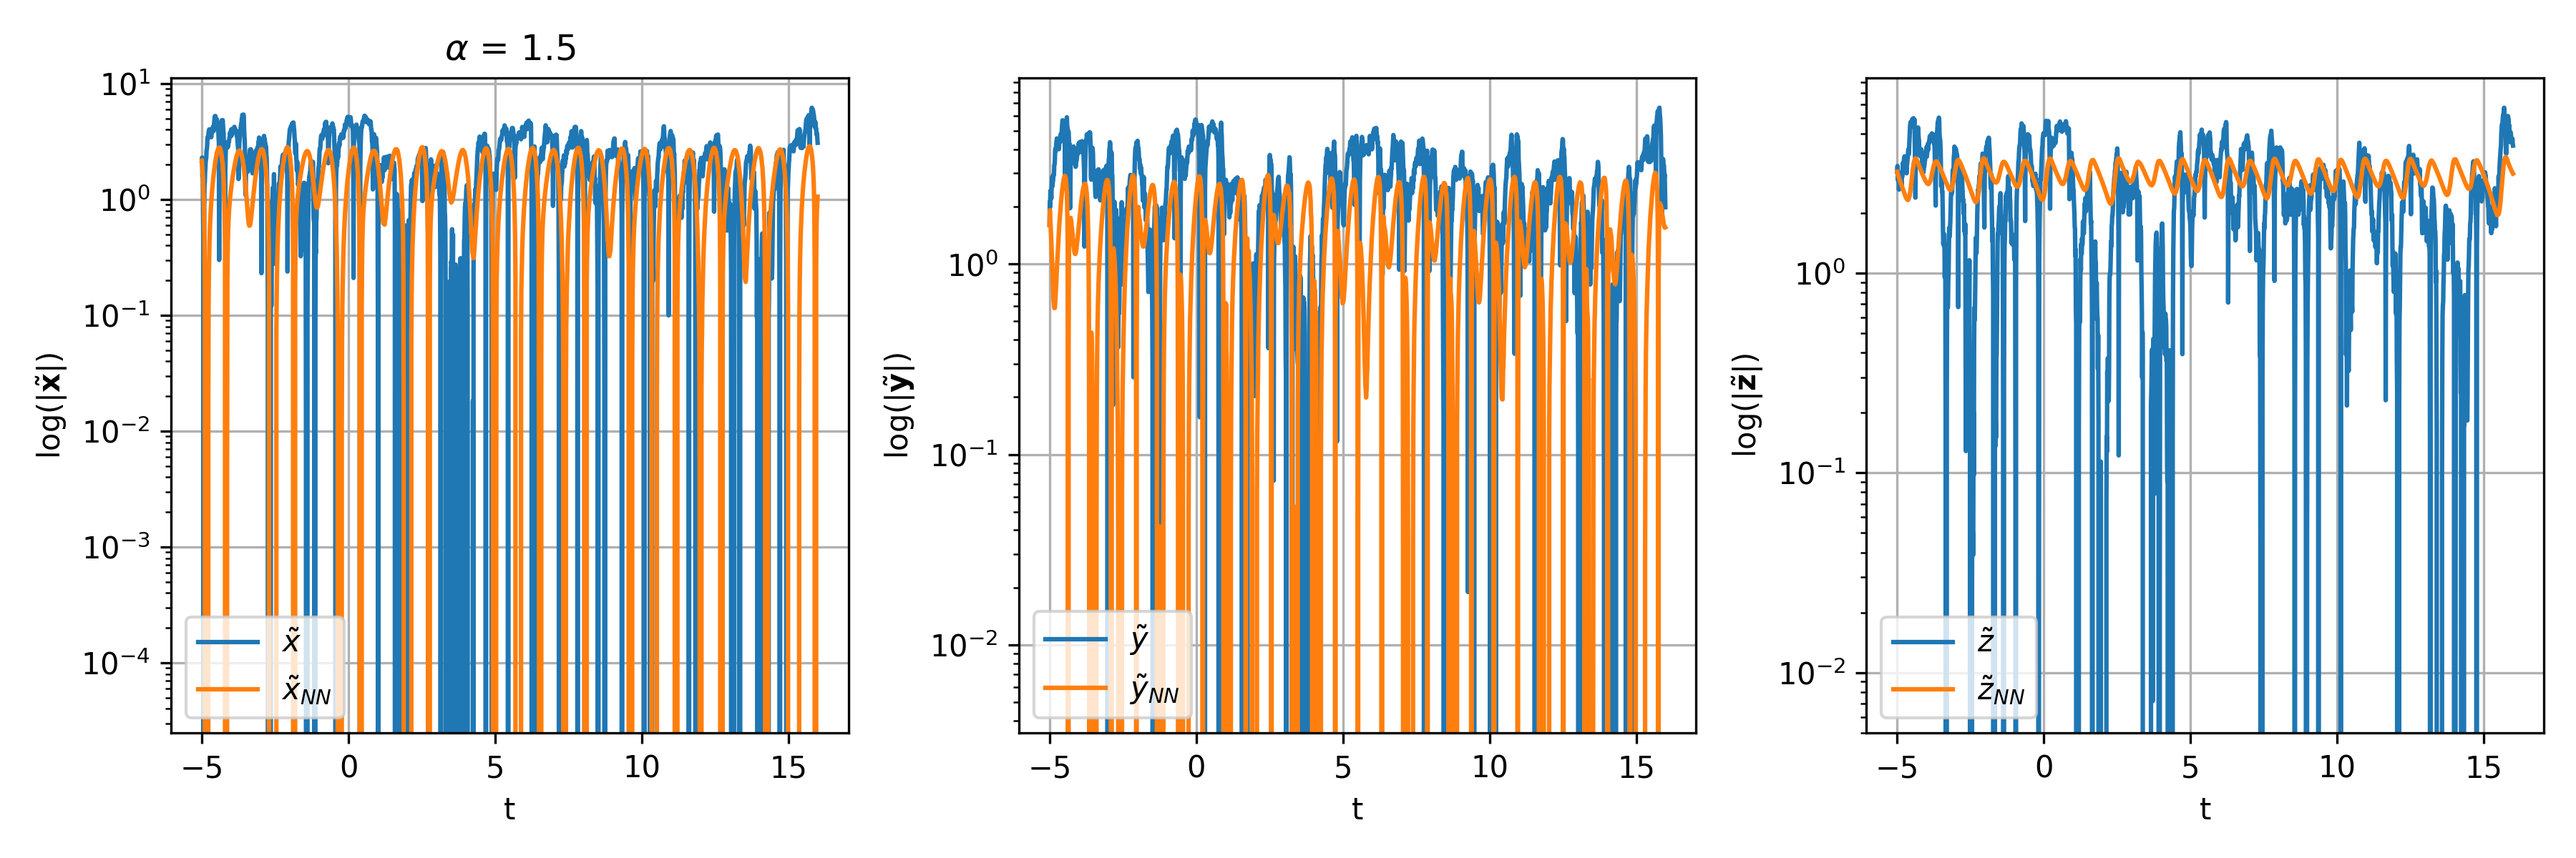
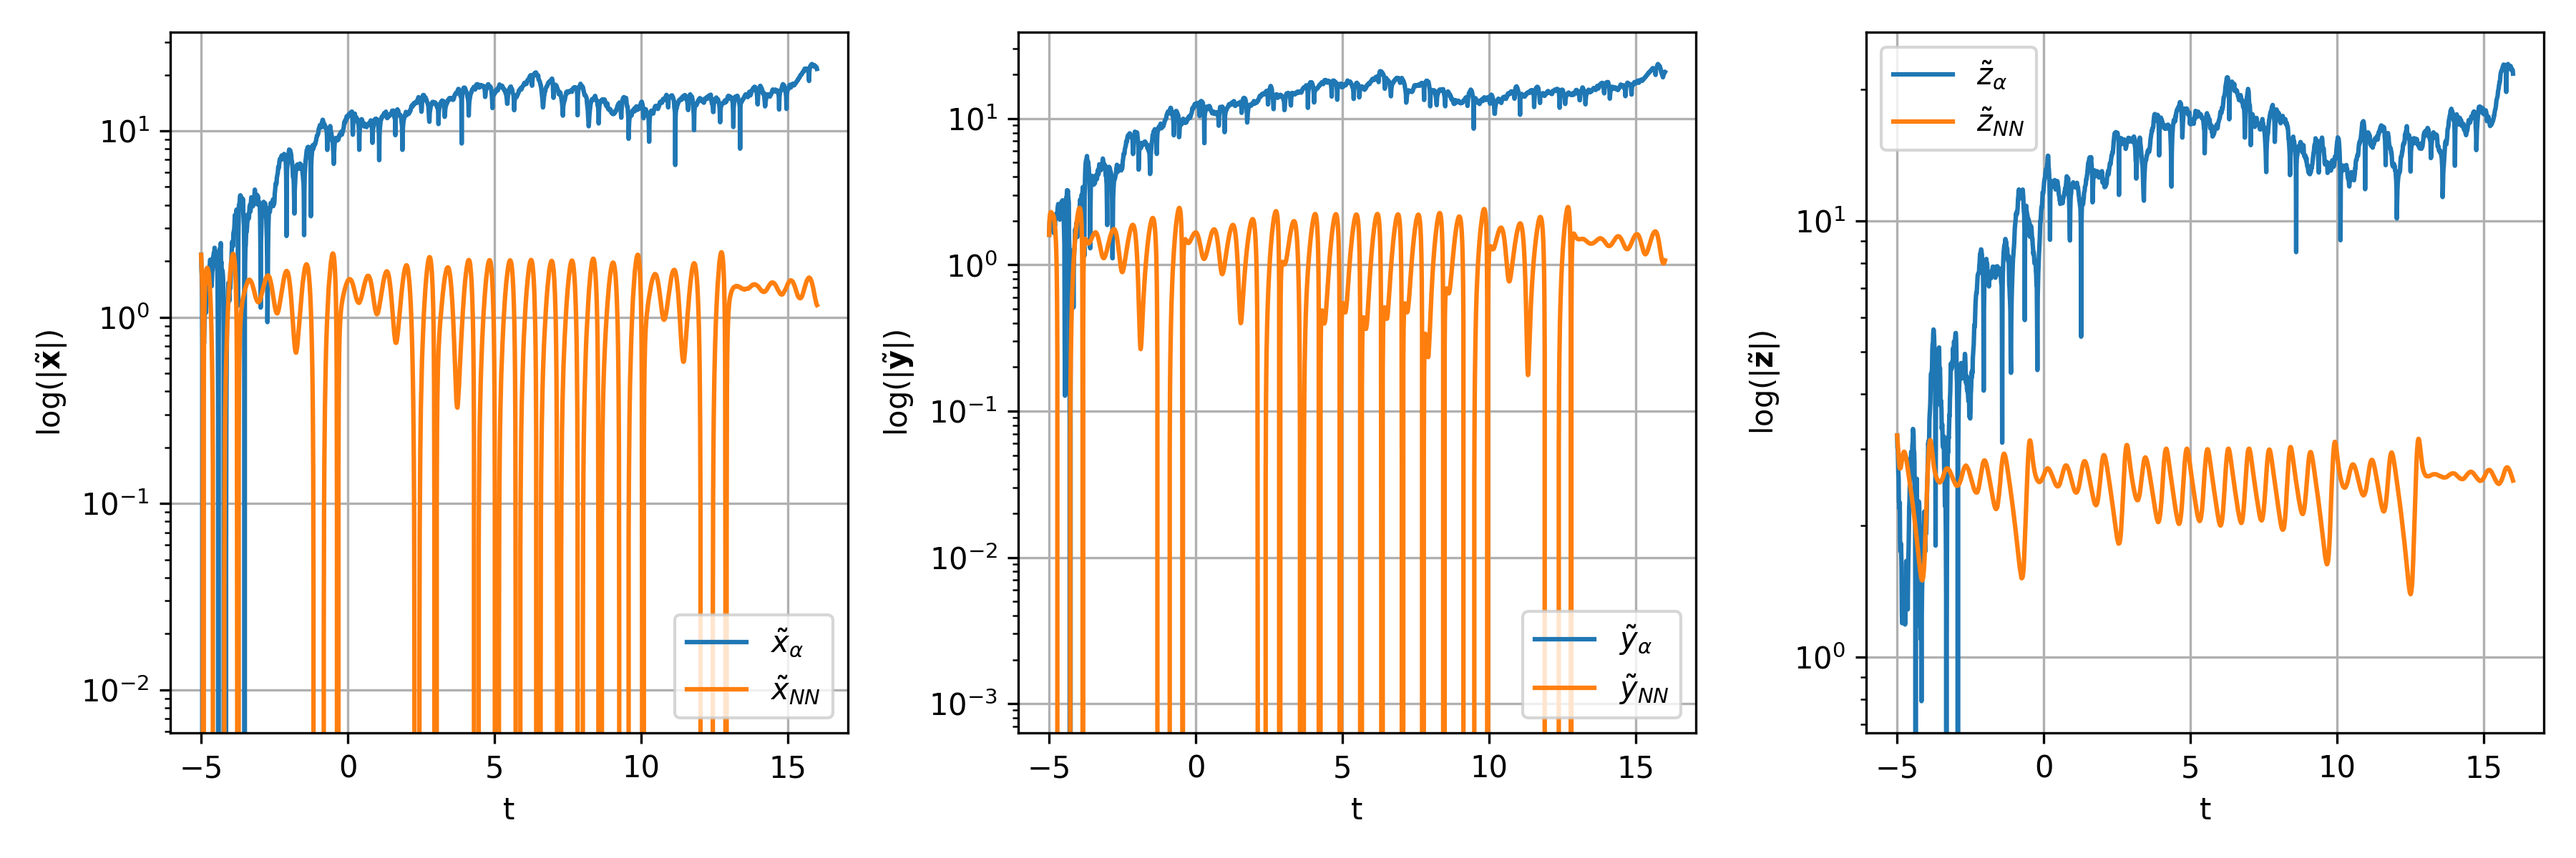
fix plotting

diff --git a/diffusion-train-network.py b/diffusion-train-network.py
@@ -69,8 +69,8 @@ save = False
 
 ######################### Network parameters ##################################
 
-n_layers = 2 #Number of hidden layers
-n_dim_per_layer = 5 #Neurons per layer
+n_layers = 3 #Number of hidden layers
+n_dim_per_layer = 10 #Neurons per layer
 
 n_dimensions = 3 #Spatial dimension 
 
@@ -78,7 +78,7 @@ ACTIVATIONS = tf.nn.relu #Activation function
 VALIDATION_SPLIT = .2 # 80% for training, 20% for testing
 BATCH_SIZE = 128
 LEARNING_RATE = 1e-2
-N_EPOCHS = 5
+N_EPOCHS = 100
 
 # use diagonal sigma matrix
 diffusivity_type = "diagonal"
@@ -143,15 +143,16 @@ if train:
                             n_epochs=N_EPOCHS,
                             batch_size=BATCH_SIZE)
 
-    fig, hist_axes = plt.subplots(1, 1, figsize=(10, 5))
-    hist_axes.clear()
-    hist_axes.set_title(r"Training Results for Diagonal $\Sigma$")
-    hist_axes.plot(hist.history["loss"], label='Loss')
-    hist_axes.plot(hist.history["val_loss"], label='Validation')
-    hist_axes.set_ylim([np.min(hist.history["loss"])*1.1, np.max(hist.history["loss"])])
-    hist_axes.set_xlabel("Epoch")
-    hist_axes.legend()
-    #fig.savefig('FirstTrainingDiagonal.png')
+    plt.figure(16,figsize=(6,4))
+    plt.title(r"Diagonal $\Sigma$")
+    plt.plot(hist.history["loss"], label='Training')
+    plt.plot(hist.history["val_loss"], label='Validation')
+    plt.ylim([np.min(hist.history["loss"])*1.1, np.max(hist.history["loss"])])
+    plt.xlabel("Epoch")
+    plt.ylabel("Loss")
+    plt.legend()
+    plt.savefig('training.png')
+    plt.show()
 
 file_path = 'Trained_Dietrich'
 file_path += '/' + diffusivity_type + '/'
@@ -200,54 +201,64 @@ for n in range(N-1):
     x_EM[n+1,:] = x_EM[n,:] + f(x_EM[n,:])*dt
 
     # compare naive model to NN
-    alpha = 1.5
+    alpha = 1.2
     xtilde[n+1,:] = xtilde[n,:] + np.matmul(dfdx(x_n[n,:]),xtilde[n,:])*dt + naive_model(alpha)*dW[n]
-    xtilde_NN[n+1,:] = sde_i.sample_tilde_xn1(xtilde_NN[n,:], x_n[n,:], dt, jac_par, diffusivity_type)
+
+    xtilde_NN[n+1,:] = sde_i.sample_tilde_xn1(xtilde_NN[n,:], xtilde_NN[n,:], dt, jac_par, diffusivity_type)
 
 
-plt.figure(1)
-plt.plot(t,x_EM[:,0],label=r"$x$")
-plt.plot(t,x_EM[:,1],label=r"$y$")
-plt.plot(t,x_EM[:,2],label=r"$z$")
-plt.xlabel("t")
-plt.ylabel(r"$\mathbf{x}$")
-plt.legend()
-plt.grid()
-plt.savefig('em-sol.png', format='png', dpi=300)
-plt.show()
-
-plt.figure(11)
-plt.plot(t,xh[:,0],label=r"$x$")
-plt.plot(t,xh[:,1],label=r"$y$")
-plt.plot(t,xh[:,2],label=r"$z$")
-plt.xlabel("t")
-plt.ylabel(r"$\mathbf{x}$")
-plt.legend()
-plt.grid()
-plt.savefig('xh-sol.png', format='png', dpi=300)
-plt.show()
-
-
-plt.figure(2,figsize=(12,4))
+plt.figure(3,figsize=(12,4))
 plt.subplot(1,3,1)
-plt.plot(t,xtilde[:,0],label=r"$\tilde{x}$")
-plt.plot(t,xtilde_NN[:,0],label=r"$\tilde{x}_{NN}$")
-plt.legend()
+plt.plot(t,np.log(np.abs(xtilde[:,0])),label=r"$\tilde{x}_\alpha$")
+plt.plot(t,np.log(np.abs(xtilde_NN[:,0])),label=r"$\tilde{x}_{NN}$")
 plt.xlabel("t")
-plt.ylabel(r"$\tilde{\mathbf{x}}$")
-plt.title(r"$\alpha$ = " + str(alpha))
+plt.yscale("log")
+#plt.title(r"$\alpha$ = " + str(alpha))
+plt.ylabel(r"$\log(|\tilde{\mathbf{x}}|)$")
+plt.legend()
 plt.grid()
 
 plt.subplot(1,3,2)
-plt.plot(t,xtilde[:,1],label=r"$\tilde{y}$")
-plt.plot(t,xtilde_NN[:,1],label=r"$\tilde{y}_{NN}$")
-plt.legend()
+plt.plot(t,np.log(np.abs(xtilde[:,1])),label=r"$\tilde{y}_\alpha$")
+plt.plot(t,np.log(np.abs(xtilde_NN[:,1])),label=r"$\tilde{y}_{NN}$")
 plt.xlabel("t")
-plt.ylabel(r"$\tilde{\mathbf{y}}$")
+plt.yscale("log")
+plt.ylabel(r"$\log(|\tilde{\mathbf{y}}|)$")
+plt.legend()
 plt.grid()
 
 plt.subplot(1,3,3)
-plt.plot(t,xtilde[:,2],label=r"$\tilde{z}$")
+plt.plot(t,np.log(np.abs(xtilde[:,2])),label=r"$\tilde{z}_\alpha$")
+plt.plot(t,np.log(np.abs(xtilde_NN[:,2])),label=r"$\tilde{z}_{NN}$")
+plt.xlabel("t")
+plt.yscale("log")
+plt.ylabel(r"$\log(|\tilde{\mathbf{z}}|)$")
+plt.legend()
+plt.grid()
+plt.tight_layout()
+plt.savefig('logtildes.png', format='png', dpi=300)
+plt.show()
+
+plt.figure(4,figsize=(12,4))
+plt.subplot(1,3,1)
+plt.plot(t,(xtilde[:,0]),label=r"$\tilde{x}_\alpha$")
+plt.plot(t,(xtilde_NN[:,0]),label=r"$\tilde{x}_{NN}$")
+plt.xlabel("t")
+#plt.title(r"$\alpha$ = " + str(alpha))
+plt.ylabel(r"$\tilde{\mathbf{x}}$")
+plt.legend()
+plt.grid()
+
+plt.subplot(1,3,2)
+plt.plot(t,xtilde[:,1],label=r"$\tilde{y}_\alpha$")
+plt.plot(t,xtilde_NN[:,1],label=r"$\tilde{y}_{NN}$")
+plt.xlabel("t")
+plt.ylabel(r"$\tilde{\mathbf{y}}$")
+plt.legend()
+plt.grid()
+
+plt.subplot(1,3,3)
+plt.plot(t,xtilde[:,2],label=r"$\tilde{z}_\alpha$")
 plt.plot(t,xtilde_NN[:,2],label=r"$\tilde{z}_{NN}$")
 plt.xlabel("t")
 plt.ylabel(r"$\tilde{\mathbf{z}}$")
@@ -257,70 +268,40 @@ plt.tight_layout()
 plt.savefig('tildes.png', format='png', dpi=300)
 plt.show()
 
-plt.figure(3,figsize=(12,4))
+
+plt.figure(22,figsize=(12,4))
 plt.subplot(1,3,1)
-plt.plot(t,np.log(np.abs(xtilde[:,0])),label=r"$\tilde{x}$")
-plt.plot(t,np.log(np.abs(xtilde_NN[:,0])),label=r"$\tilde{x}_{NN}$")
-plt.xlabel("t")
-plt.yscale("log")
-plt.title(r"$\alpha$ = " + str(alpha))
-plt.ylabel(r"$\log(|\tilde{\mathbf{x}}|)$")
-plt.legend()
-plt.grid()
-
-plt.subplot(1,3,2)
-plt.plot(t,np.log(np.abs(xtilde[:,1])),label=r"$\tilde{y}$")
-plt.plot(t,np.log(np.abs(xtilde_NN[:,1])),label=r"$\tilde{y}_{NN}$")
-plt.xlabel("t")
-plt.yscale("log")
-plt.ylabel(r"$\log(|\tilde{\mathbf{y}}|)$")
-plt.legend()
-plt.grid()
-
-plt.subplot(1,3,3)
-plt.plot(t,np.log(np.abs(xtilde[:,2])),label=r"$\tilde{z}$")
-plt.plot(t,np.log(np.abs(xtilde_NN[:,2])),label=r"$\tilde{z}_{NN}$")
-plt.xlabel("t")
-plt.yscale("log")
-plt.ylabel(r"$\log(|\tilde{\mathbf{z}}|)$")
-plt.legend()
-plt.grid()
-plt.tight_layout()
-
-plt.savefig('logtildes.png', format='png', dpi=300)
-
-plt.show()
-
-
-plt.figure(5,figsize=(12,4))
-plt.subplot(1,3,1)
-plt.plot(t,xh[:,0],label=r"$x$")
+plt.plot(t,xh[:,0],label=r"${x}$")
+plt.plot(t,x_EM[:,0],label=r"${x}_{EM}$")
 plt.plot(t,xtilde_NN[:,0],label=r"$\tilde{x}_{NN}$")
+#plt.plot(t,xtilde[:,0],label=r"$\tilde{x}_{\alpha}$")
 plt.legend()
 plt.xlabel("t")
 plt.ylabel(r"${\mathbf{x}}$")
+plt.ylim(-20,20)
 plt.grid()
 
 plt.subplot(1,3,2)
-plt.plot(t,xh[:,1],label=r"$y$")
+plt.plot(t,xh[:,1],label=r"${y}$")
+plt.plot(t,x_EM[:,1],label=r"${y}_{EM}$")
 plt.plot(t,xtilde_NN[:,1],label=r"$\tilde{y}_{NN}$")
+#plt.plot(t,xtilde[:,1],label=r"$\tilde{y}_{\alpha}$")
 plt.legend()
 plt.xlabel("t")
 plt.ylabel(r"${\mathbf{y}}$")
+plt.ylim(-25,25)
 plt.grid()
 
 plt.subplot(1,3,3)
-plt.plot(t,xh[:,2],label=r"$z$")
+plt.plot(t,xh[:,2],label=r"${z}$")
+plt.plot(t,x_EM[:,2],label=r"${z}_{EM}$")
 plt.plot(t,xtilde_NN[:,2],label=r"$\tilde{z}_{NN}$")
+#plt.plot(t,xtilde[:,2],label=r"$\tilde{z}_{\alpha}$")
 plt.xlabel("t")
 plt.ylabel(r"${\mathbf{z}}$")
 plt.legend()
 plt.grid()
+plt.ylim(0,50)
 plt.tight_layout()
-plt.savefig('tildes-xh.png', format='png', dpi=300)
-
+plt.savefig('paths.png', format='png', dpi=300)
 plt.show()
-
-
-
-
